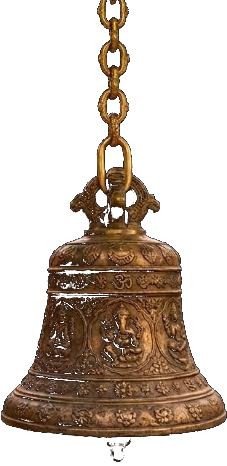
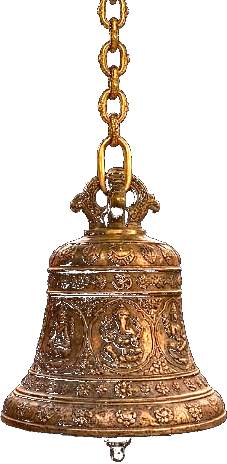
Enhance brass bell image clarity, decrease size to 95px, and align hanging bell to top inner edge of palace archway

Changed region(s): [[0.0, 0.0, 1.0, 0.9957]]

diff --git a/style.css b/style.css
@@ -380,7 +380,7 @@ body.borderless-android {
 .bell-button,
 #ropeButton {
   position: absolute !important;
-  top: -15px !important;
+  top: -25px !important;
   left: 50% !important;
   transform: translateX(-50%) !important;
   z-index: 25 !important;
@@ -400,30 +400,31 @@ body.borderless-android {
   top: -300px;
   left: 50%;
   transform: translateX(-50%);
-  width: 14px;
-  height: 340px;
+  width: 10px;
+  height: 330px;
   background-image: radial-gradient(circle at 50% 50%, #FFD700 25%, #B8860B 65%, transparent 95%);
-  background-size: 14px 20px;
+  background-size: 10px 16px;
   background-repeat: repeat-y;
   opacity: 0.9;
-  filter: drop-shadow(0 0 10px rgba(255, 215, 0, 0.8));
+  filter: drop-shadow(0 0 8px rgba(255, 215, 0, 0.8));
   z-index: 1;
 }
 
-/* Hanging Brass Bell Image with Shiny Golden Glow */
+/* Hanging Brass Bell Image with High Clarity & Shiny Golden Glow */
 .bell-img,
 .rope-img {
   width: auto !important;
-  max-width: 170px !important;
+  max-width: 95px !important;
   height: auto !important;
-  max-height: 290px !important;
+  max-height: 165px !important;
   object-fit: contain !important;
-  filter: drop-shadow(0 0 14px rgba(255, 215, 0, 0.85)) drop-shadow(0 0 28px rgba(216, 169, 87, 0.65)) !important;
+  filter: drop-shadow(0 0 10px rgba(255, 215, 0, 0.85)) drop-shadow(0 0 18px rgba(216, 169, 87, 0.6)) !important;
   transition: transform 0.3s cubic-bezier(0.175, 0.885, 0.32, 1.275), filter 0.3s ease !important;
   animation: bellShinyGlow 2.2s infinite alternate ease-in-out !important;
   cursor: pointer !important;
   position: relative !important;
   z-index: 2 !important;
+  image-rendering: -webkit-optimize-contrast;
 }
 
 .bell-button:hover .bell-img,
